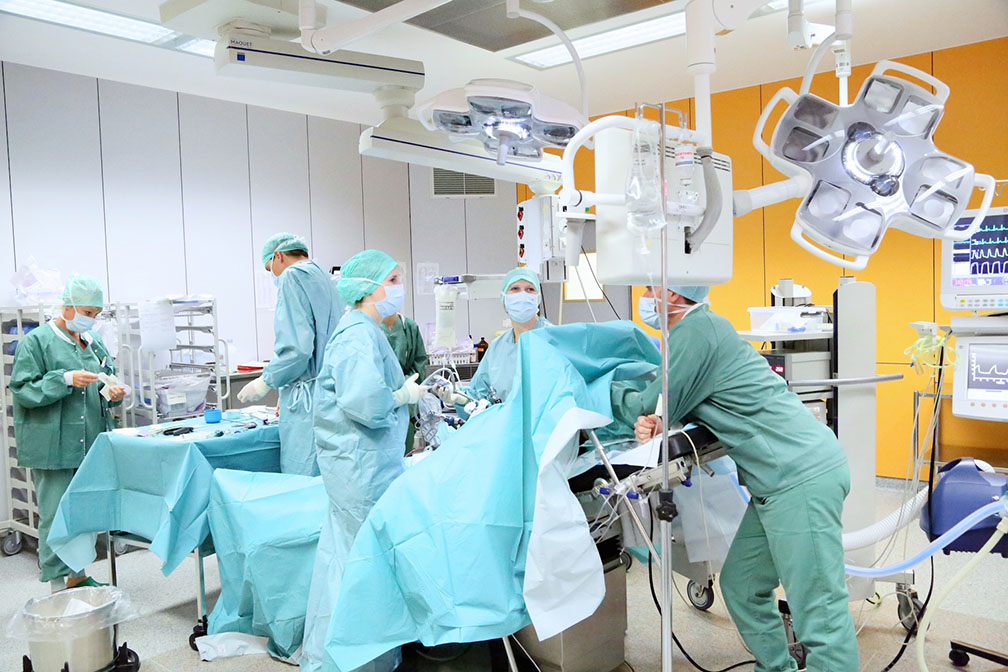
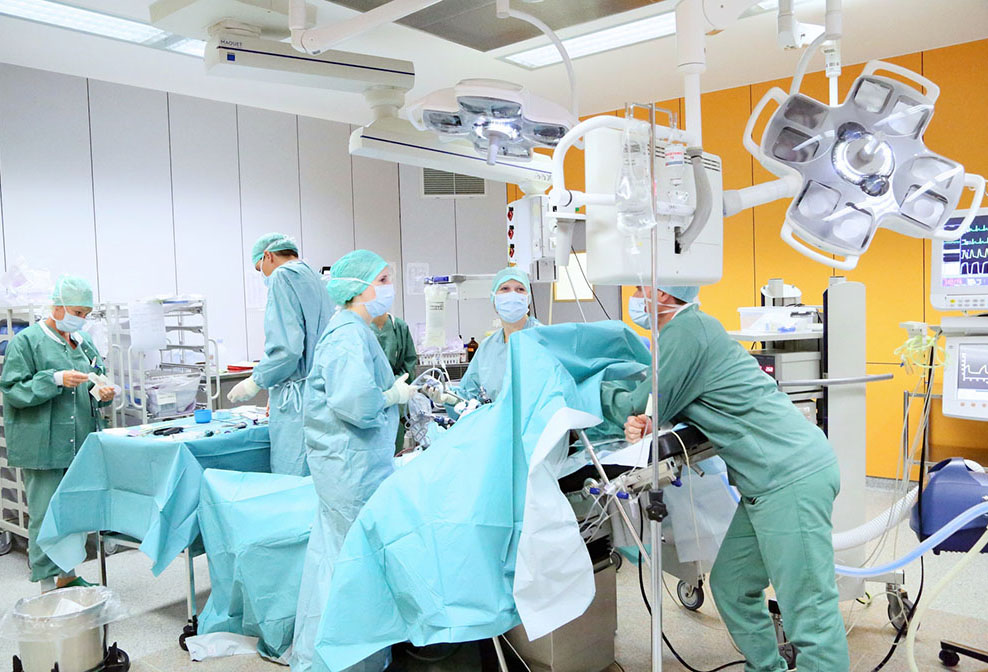
fix(images): fixed services images aspect-ratio

diff --git a/src/app/components/hero/hero.html b/src/app/components/hero/hero.html
@@ -8,8 +8,8 @@
       <img
         class="size-full object-cover object-center"
         [ngSrc]="background()!"
-        width="1190"
-        height="670"
+        width="988"
+        height="672"
         alt="" />
     </div>
   }
